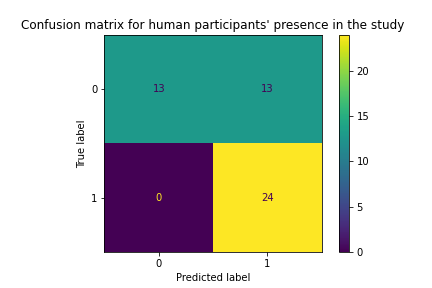
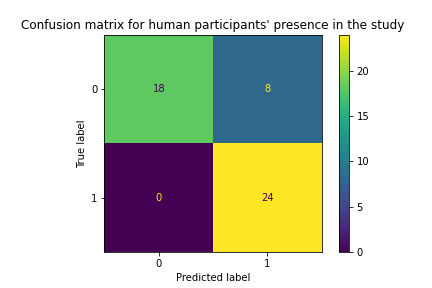
New data on llm screening

Changed region(s): [[0.2407, 0.125, 0.7523, 0.5]]

diff --git a/llm_systematic_review/llm_human_comparison.py b/llm_systematic_review/llm_human_comparison.py
@@ -14,6 +14,18 @@ llm = pd.read_csv("data/llm_title_abstract_50.csv")
 
 human.columns = ['human_covidence_no', 'title', 'human_human_participants', 'human_involves_persuasion', 'human_persuasion_is_ai', 'human_is_theoretical', 'human_is_marketing', 'human_final_decision']
 
+for col in llm.columns:
+    if '.decision' in col:
+        llm[col] = llm[col].map({'Yes': 1, 'No': 0})
+        
+llm['final_decision'] = llm['final_decision'].map({'Include': 1, 'Exclude': 0})
+
+# Create logical_final_decision: 1 if all inclusion criteria are 1 and all exclusion criteria are 0
+ic_cols = [col for col in llm.columns if 'ic' in col and '.decision' in col]
+ec_cols = [col for col in llm.columns if 'ec' in col and '.decision' in col]
+llm['logical_final_decision'] = (llm[ic_cols].eq(1).all(axis=1) & llm[ec_cols].eq(0).all(axis=1)).astype(int)
+
+
 cm = confusion_matrix(human['human_final_decision'], llm['llm_final_decision'])
 fig, ax = plt.subplots()
 disp = ConfusionMatrixDisplay(confusion_matrix=cm)
